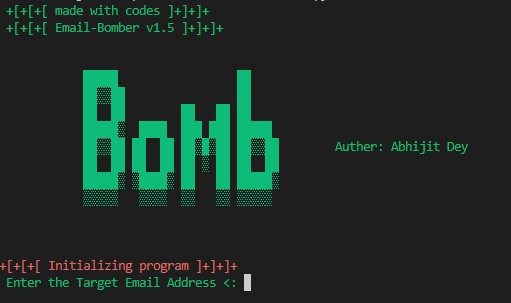
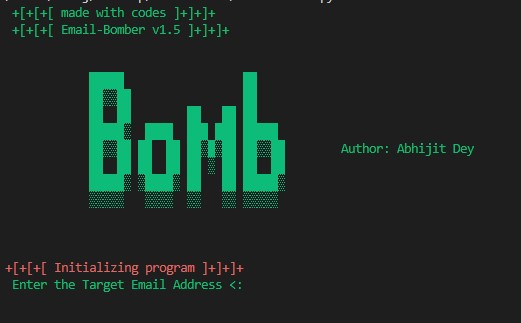
added new screenshot

diff --git a/emailBomber.py b/emailBomber.py
@@ -18,7 +18,7 @@ def banner():
             ██▒▒██                ██
             ██  ██        ██   ██ ██        
             █████▒  ████  ███ ███ █████         
-            ██▒▒██ ██  ██ ██▒█▒██ ██▒▒██        Auther: Abhijit Dey
+            ██▒▒██ ██  ██ ██▒█▒██ ██▒▒██        Author: Abhijit Dey
             ██  ██ ██  ██ ██ ▒ ██ ██  ██
             █████▒ ▒████▒ ██   ██ █████▒
             ▒▒▒▒▒   ▒▒▒▒  ▒▒   ▒▒ ▒▒▒▒▒
